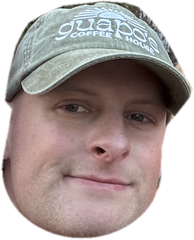
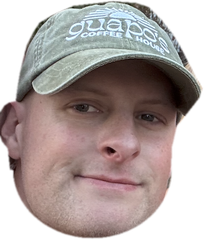
fix(logs): keep sam's ear, drop the neighbour's
The ear above the brim tip belonged to the person beside him; sam's own
sits below it. Width 194 → 204.

Claude-Session: https://claude.ai/code/session_01SxQq3fhB7amT4NeEUMVNk9

diff --git a/src/lib/sitters.ts b/src/lib/sitters.ts
@@ -19,7 +19,7 @@ export const SITTERS: Sitter[] = [
     name: 'sam',
     full: "Salvatore D'Angelo",
     head: '/sitters/sam.png',
-    w: 194,
+    w: 204,
     log: 0,
     role: 'host',
     url: 'https://threesam.com',
